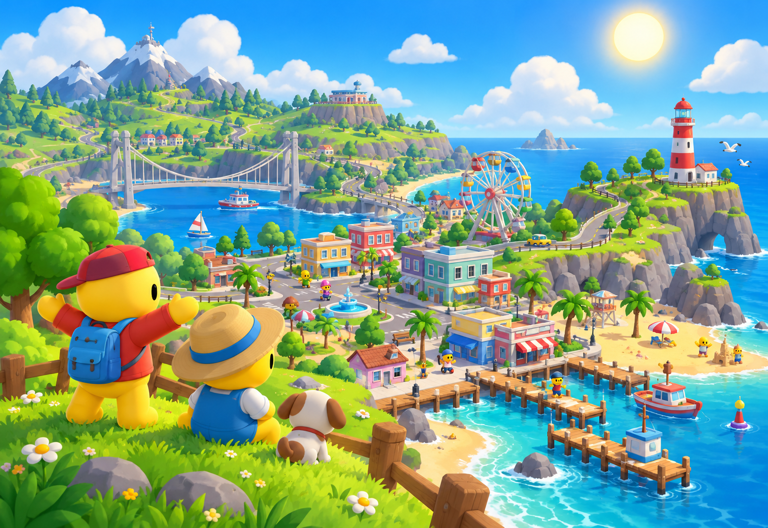
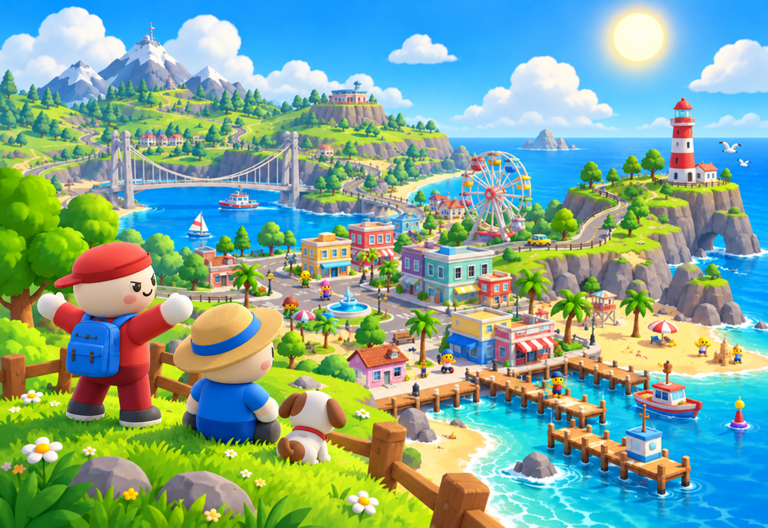
Refresh first three Wobblers character paintings
Match in-game peach-skinned characters, preserving scenes and text. Passed size/opacity checks, visual review and browser game-loader validation.

diff --git a/wobblers/image-requests.md b/wobblers/image-requests.md
@@ -1,7 +1,6 @@
 # Wobblers image requests
 
-**Status: rounds 12 and 13 are OPEN.** Rounds 1–11 are delivered; see `image-requests-history.md` for those requests
-and their review notes.
+**Status: rounds 12, 13 remain OPEN; delivered rows are in `image-requests-history.md`.**
 
 ## How delivery works
 
@@ -63,9 +62,6 @@ library, so it matters most. Same paths and sizes, opaque, filling the frame.
 
 | File (`assets/…`) | Size | Prompt |
 |---|---|---|
-| `posters/painting_island.png` | 768 × 528 | A cosy, bright toy-like storybook painting of a sunny island seen from a grassy hilltop with a wooden fence: green hills, a little colourful town with a fountain plaza, a ferris wheel, a red-and-white lighthouse on cliffs, a suspension bridge, piers and boats on a turquoise sea, snowy mountains far off. In the foreground two Wobblers seen from behind and the side, waving at the view: one in a red shirt and red cap with a blue backpack, one in a blue shirt with a straw sun hat, with a small puppy; both with peach-skinned round heads, darker trousers, white mitten hands and dark shoes (see the character sheet). |
-| `posters/portrait_family.png` | 512 × 666 | A framed, warm family portrait painting of three Wobblers hugging and waving against a sunny orange backdrop: a tall one in a yellow shirt with a black top hat and red bow tie, one in a pink shirt with a purple bow on the head, a small one in a blue shirt; peach-skinned round heads with happy printed cartoon faces, darker trousers, white mitten hands. |
-| `posters/wanted_kid.png` | 512 × 716 | Old west WANTED poster on aged paper with torn edges: the words **WANTED** at the top and **CACTUS KID** / **REWARD 50 COINS** below; in the picture a cheeky Wobbler in a green shirt with a brown cowboy hat and red neckerchief, winking and hugging a cactus in a desert town. Peach-skinned round head with a printed cartoon face, white mitten hands, dark shoes. |
 | `posters/wanted_pete.png` | 512 × 716 | Matching WANTED poster: **WANTED** at the top, **WOBBLY PETE** / **REWARD 100 COINS** below; a Wobbler outlaw in an orange shirt and black cowboy hat with a red bandana over the lower face, holding a toy water pistol, in a desert town. Peach-skinned round head with printed cartoon eyes, white mitten hands, dark shoes. |
 | `posters/clothes_fashion.png` | 512 × 716 | Bright fashion-shop poster with the words **NEW LOOKS** in big bubbly letters at the top; a Wobbler in a teal shirt striking a happy pose in a colourful sombrero and striped poncho with heart sunglasses, on a sunny plaza. Peach-skinned round head, darker trousers, white mitten hands. |
 | `posters/homes_cottage.png` | 768 × 528 | Estate-agent sign poster: a red **FOR SALE** board in front of a cosy cream cottage with a red roof, garden flowers and a white picket fence by the sea; a Wobbler in a purple shirt with a straw hat waving in front. Peach-skinned round head with a printed smiling face, darker trousers, white mitten hands. |

diff --git a/wobblers/image-requests-history.md b/wobblers/image-requests-history.md
@@ -4,6 +4,16 @@ Delivered and reviewed requests, newest first, kept for their prompts, sizes and
 review notes. Open requests live in `image-requests.md`; final prompts and source
 files are recorded in `assets/generation.json`.
 
+## Delivered round 12 — character artwork corrections and cover
+
+Delivered in batches with built-in imagegen on 2026-10-26. Exact prompts, source
+paths and dimensions are in `assets/generation.json`. Replaced artwork is preserved
+in `assets/originals/pre-round12/`. Checked dimensions, alpha and browser loading.
+
+| `posters/painting_island.png` | 768 × 528 | A cosy, bright toy-like storybook painting of a sunny island seen from a grassy hilltop with a wooden fence: green hills, a little colourful town with a fountain plaza, a ferris wheel, a red-and-white lighthouse on cliffs, a suspension bridge, piers and boats on a turquoise sea, snowy mountains far off. In the foreground two Wobblers seen from behind and the side, waving at the view: one in a red shirt and red cap with a blue backpack, one in a blue shirt with a straw sun hat, with a small puppy; both with peach-skinned round heads, darker trousers, white mitten hands and dark shoes (see the character sheet). |
+| `posters/portrait_family.png` | 512 × 666 | A framed, warm family portrait painting of three Wobblers hugging and waving against a sunny orange backdrop: a tall one in a yellow shirt with a black top hat and red bow tie, one in a pink shirt with a purple bow on the head, a small one in a blue shirt; peach-skinned round heads with happy printed cartoon faces, darker trousers, white mitten hands. |
+| `posters/wanted_kid.png` | 512 × 716 | Old west WANTED poster on aged paper with torn edges: the words **WANTED** at the top and **CACTUS KID** / **REWARD 50 COINS** below; in the picture a cheeky Wobbler in a green shirt with a brown cowboy hat and red neckerchief, winking and hugging a cactus in a desert town. Peach-skinned round head with a printed cartoon face, white mitten hands, dark shoes. |
+
 ## Delivered round 11 — Stratford Fall Fair, arcade cabinets, gadgets, phone booths (22 signs)
 
 The game draws a procedural stand-in for each until the art arrives. The fair is
